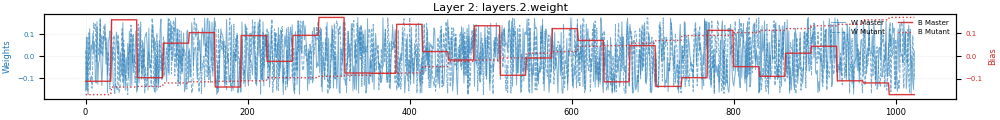
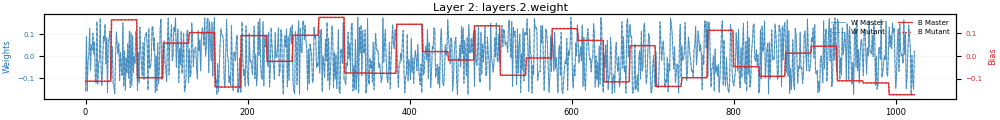
pweight

Changed region(s): [[0.062, 0.125, 0.93, 0.8]]

diff --git a/permute_model.py b/permute_model.py
@@ -27,10 +27,14 @@ def get_swap_permutation(hidden_dim: int, seed: int) -> torch.Tensor:
     return perm
 
 
-def get_sort_permutation(biases: torch.Tensor) -> torch.Tensor:
-    """Generate a permutation that sorts neurons by their bias values."""
-    # Sort by the bias of each neuron
-    return torch.argsort(biases)
+def get_sort_permutation(values: torch.Tensor) -> torch.Tensor:
+    """Generate a permutation that sorts neurons by the provided values.
+
+    Handles 1D (bias) or 2D (weight) tensors. If 2D, sorts by row-wise mean.
+    """
+    if values.dim() == 2:
+        values = values.mean(dim=1)
+    return torch.argsort(values)
 
 
 def permute_weights(
@@ -59,8 +63,8 @@ def permute_weights(
     # Determine hidden dimension from state dict
     hidden_dim = state[f"layers.{layer}.weight"].shape[0]
 
-    # Use the bias-sorting strategy
-    perm = get_sort_permutation(state[f"layers.{layer}.bias"])
+    # Use the weight-sorting strategy
+    perm = get_sort_permutation(state[f"layers.{layer}.weight"])
 
     # Apply permutation to layer weights (rows)
     state[f"layers.{layer}.weight"] = state[f"layers.{layer}.weight"][perm]
@@ -106,8 +110,8 @@ def permute_all_layers(
     print(f"Permuting layers 1 through {num_hidden-1}...")
 
     for layer in range(1, num_hidden):
-        # 1. Get sorting permutation based on current biases
-        perm = get_sort_permutation(state[f"layers.{layer}.bias"])
+        # 1. Get sorting permutation based on current weights
+        perm = get_sort_permutation(state[f"layers.{layer}.weight"])
         
         # 2. Apply to current layer (rows and bias)
         state[f"layers.{layer}.weight"] = state[f"layers.{layer}.weight"][perm]
@@ -124,6 +128,60 @@ def permute_all_layers(
     return target_path
 
 
+
+def permute_layer_2d(
+    source_path: str = "master.pt",
+    layer: int = 4,
+) -> str:
+    """Canonicalize a layer in 2D (rows and columns).
+
+    Permutes target layer neurons to sort rows by bias,
+    and permutes previous layer neurons to sort target layer columns.
+
+    Args:
+        source_path: Path to source model weights.
+        layer: Index of the layer to sort (must be > 0).
+
+    Returns:
+        Path to the saved 2D-permuted weights file.
+    """
+    if layer <= 0:
+        raise ValueError("2D sorting requires a previous hidden layer (layer > 0)")
+
+    state = torch.load(source_path, weights_only=True)
+
+    # 1. Sort ROWS of target layer N (by target weight mean)
+    perm_n = get_sort_permutation(state[f"layers.{layer}.weight"])
+    
+    # Apply Row Sort to Layer N
+    state[f"layers.{layer}.weight"] = state[f"layers.{layer}.weight"][perm_n]
+    state[f"layers.{layer}.bias"] = state[f"layers.{layer}.bias"][perm_n]
+    
+    # Adjust downstream (Layer N+1 columns)
+    next_layer = layer + 1
+    if next_layer < len([k for k in state if "weight" in k]):
+        state[f"layers.{next_layer}.weight"] = state[f"layers.{next_layer}.weight"][:, perm_n]
+
+    # 2. Sort COLUMNS of target layer N (by permuting Layer N-1)
+    # Criterion: Mean contribution of each input neuron to target layer weights
+    col_means = state[f"layers.{layer}.weight"].mean(dim=0)
+    perm_prev = torch.argsort(col_means)
+    
+    # Apply Column Sort to Layer N (permutes columns)
+    state[f"layers.{layer}.weight"] = state[f"layers.{layer}.weight"][:, perm_prev]
+    
+    # Adjust upstream (Layer N-1 rows and bias)
+    prev_layer = layer - 1
+    state[f"layers.{prev_layer}.weight"] = state[f"layers.{prev_layer}.weight"][perm_prev]
+    state[f"layers.{prev_layer}.bias"] = state[f"layers.{prev_layer}.bias"][perm_prev]
+
+    target_path = f"modified_layer_{layer}_2d.pt"
+    torch.save(state, target_path)
+    print(f"Saved {target_path}")
+
+    return target_path
+
+
 def main() -> None:
     """Main entry point for weight permutation."""
     parser = argparse.ArgumentParser(description="Permute model weights")
@@ -133,11 +191,18 @@ def main() -> None:
     )
     parser.add_argument("--seed", type=int, default=42, help="Random seed for permutation")
     parser.add_argument("--all", action="store_true", help="Permute all hidden layers")
+    parser.add_argument("--layer-2d", type=int, help="Apply 2D sorting to a specific layer")
     args = parser.parse_args()
 
     if args.all:
         print("Applying permutation to ALL layers...")
         path = permute_all_layers(args.source, args.seed)
+        print(f"Done: {path}")
+        return
+
+    if args.layer_2d is not None:
+        print(f"Applying 2D sorting to layer {args.layer_2d}...")
+        path = permute_layer_2d(args.source, args.layer_2d)
         print(f"Done: {path}")
         return
 

diff --git a/results.md b/results.md
@@ -1,6 +1,6 @@
 # Results
 
-Compare `master.pt` vs `modified_all.pt` (Sorted by Bias)
+Compare `master.pt` vs `modified_layer_4_2d.pt` (Sorted by Bias)
 
 ![results_layer_0.png](results_layer_0.png)
 
